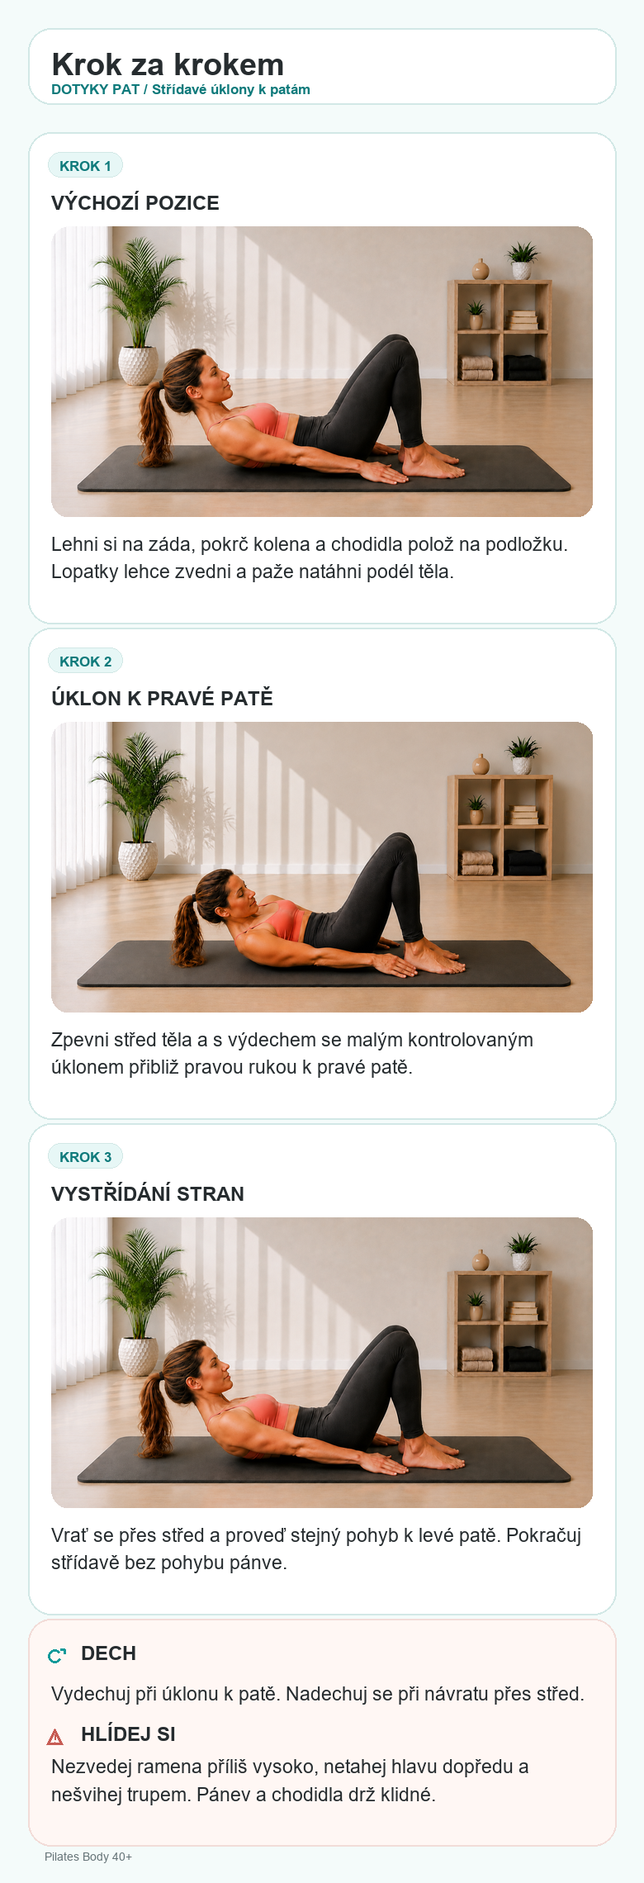
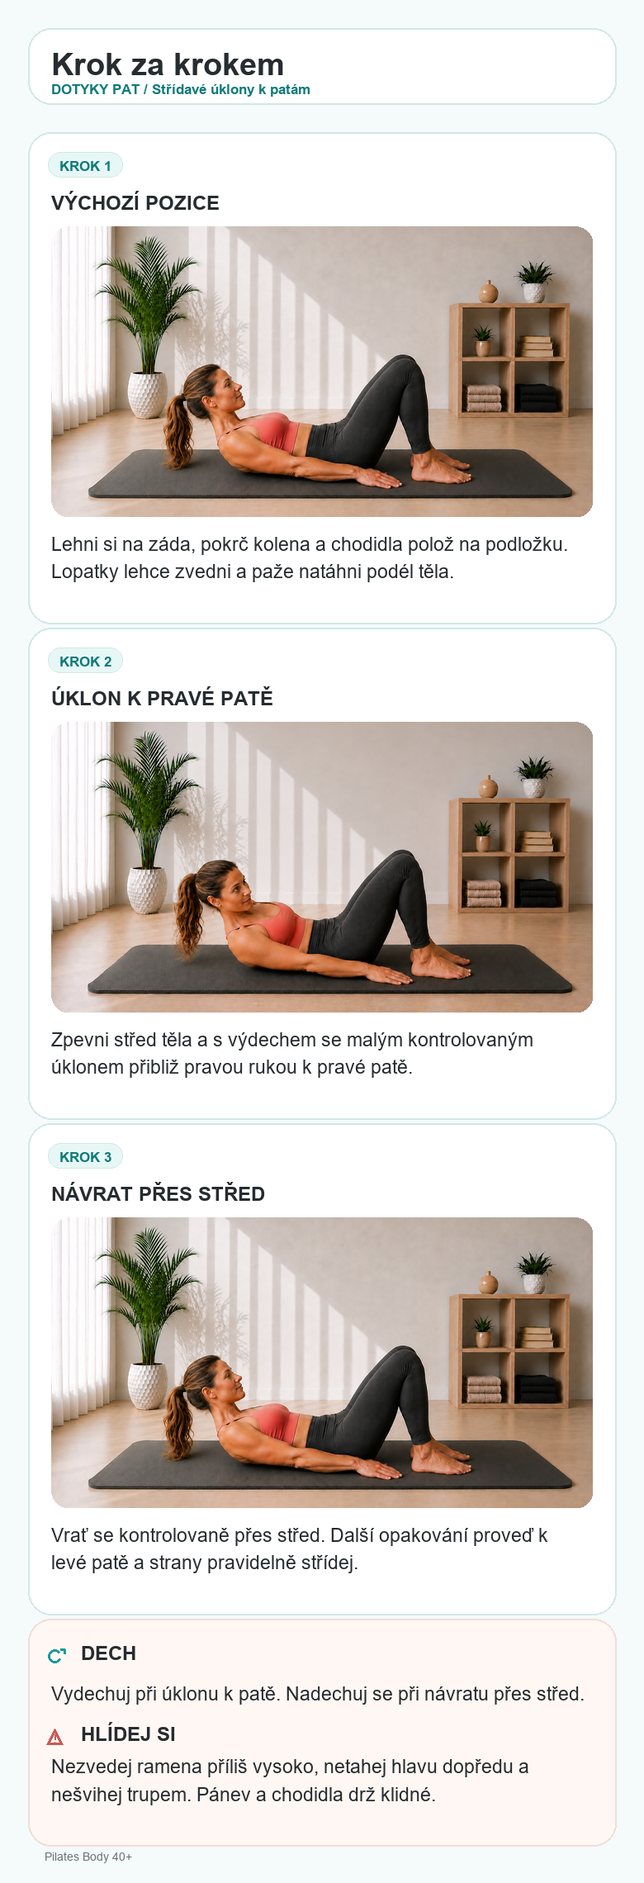
a

Changed region(s): [[0.0615, 0.6228, 0.9231, 0.8408], [0.0615, 0.1246, 0.9231, 0.2803], [0.0615, 0.3737, 0.9231, 0.5294]]

diff --git a/Pilates Assets/02_Exercise_Cards/Heel Taps/build_heel_taps_cards.py b/Pilates Assets/02_Exercise_Cards/Heel Taps/build_heel_taps_cards.py
@@ -6,13 +6,13 @@ from PIL import Image, ImageDraw, ImageFont, ImageOps
 
 
 BASE = Path(__file__).resolve().parent
-START = BASE / "heel_taps_start_v01.png"
-HERO = BASE / "heel_taps_hero_v01.png"
+START = BASE / "heel_taps_start_v02.png"
+HERO = BASE / "heel_taps_hero_v02.png"
 GUIDE = BASE / "heel_taps_guide_card_v01.png"
 STEP = BASE / "heel_taps_step_by_step_v01.png"
 EXPECTED_HASHES = {
[4 lines of base64/hex data omitted]
 }
 BG = (244, 251, 250)
 CARD = (255, 255, 255)
@@ -52,8 +52,8 @@ STEP_TEXTS = [
     ),
     (
         "KROK 3",
-        "VYSTŘÍDÁNÍ STRAN",
-        "Vrať se přes střed a proveď stejný pohyb k levé patě. Pokračuj střídavě bez pohybu pánve.",
+        "NÁVRAT PŘES STŘED",
+        "Vrať se kontrolovaně přes střed. Další opakování proveď k levé patě a strany pravidelně střídej.",
         START,
     ),
 ]

diff --git a/04_Codex/exercise_environment_audit_2026-08-28/EXERCISE_ENVIRONMENT_AUDIT_2026-08-28.md b/04_Codex/exercise_environment_audit_2026-08-28/EXERCISE_ENVIRONMENT_AUDIT_2026-08-28.md
@@ -1,0 +1,103 @@
+# Moovka - audit prostředí exercise assetů
+
+Datum: 2026-08-28
+Režim: READ-ONLY / žádné generování / žádné úpravy fotografií
+
+## Souhrn
+- Cesta k repozitáři: `C:\Users\Tomáš Machánek\Documents\GitHub\Pilates`
+- Větev / HEAD: `main` / `b20d7cb`
+- Stav vůči origin/main: `## main...origin/main;  M "Pilates Assets/02_Exercise_Cards/Heel Taps/build_heel_taps_cards.py";  M "Pilates Assets/02_Exercise_Cards/Heel Taps/heel_taps_guide_card_v01.png";  M "Pilates Assets/02_Exercise_Cards/Heel Taps/heel_taps_step_by_step_v01.png"; ?? 04_Codex/exercise_environment_audit_2026-08-28/`
+- Verze aplikace: `v59.112-dev`
+- Cache suffix `data.js`: `59112program`
+- Reference: `C:\Users\Tomáš Machánek\Documents\GitHub\Pilates\Pilates Assets\02_Exercise_Cards\Heel Taps\heel_taps_start_v02.png`
+- Reference rozměry / režim: `1536 x 1024` / `RGB`; očekávané sRGB, ICC profil není vložen
[1 lines of base64/hex data omitted]
+- Aktivní cviky: `51`
+- Unikátní otevřené fotografie: `108`
+- PASS: `39`
+- DETAIL ONLY: `7`
+- MINOR VISIBLE FIX: `5`
+- REGENERATE ENVIRONMENT/SET: `0`
+- REVIEW: `0`
+- MISSING: `0`
+
+## Preflight
+- Program obsahuje přesně 30 dní.
+- Volné dny jsou 7, 14, 21 a 28.
+- `sidekick` je ve dnech 18 a 25.
+- `childs_pose` je stretch dne 20 (`40 s`).
+- `wall` není aktivně referencovaný ani definovaný.
+- Aktivní ID: 43 unikátních v `day.items`, 9 unikátních v `day.stretch`, `thread` v obou skupinách, celkem 51.
+
+## Kontaktní přehledy
+- `C:\Users\Tomáš Machánek\Documents\GitHub\Pilates\04_Codex\exercise_environment_audit_2026-08-28\contact_sheet_active_photos_part_01.png`
+- `C:\Users\Tomáš Machánek\Documents\GitHub\Pilates\04_Codex\exercise_environment_audit_2026-08-28\contact_sheet_active_photos_part_02.png`
+- `C:\Users\Tomáš Machánek\Documents\GitHub\Pilates\04_Codex\exercise_environment_audit_2026-08-28\contact_sheet_active_photos_part_03.png`
+- `C:\Users\Tomáš Machánek\Documents\GitHub\Pilates\04_Codex\exercise_environment_audit_2026-08-28\contact_sheet_active_photos_part_04.png`
+
+## Auditní tabulka
+| Cvik | Fáze | Soubor | Kamerová skupina | Velikost modelky | Perspektiva | Palma | Květináč | Police | Ručníky/knihy | Podložka | Barvy/světlo | START/HERO kontinuita | Čistota | Viditelnost odchylky | Výsledek | Doporučení |
+|---|---|---|---|---|---|---|---|---|---|---|---|---|---|---|---|---|
+| Bent Over Row | START/HERO/END + aktivní step foto | START: `bent_over_row_start_v02.png`<br>HERO: `bent_over_row_hero_v02.png`<br>PŘÍTAH: `bent_over_row_hero_v02.png`<br>NÁVRAT: `bent_over_row_start_v02.png` | stoj | OK | OK | OK | OK | OK | OK | OK | OK | OK | bez viditelné odchylky | PASS | Bez zásahu. Působí jako součást stejné fotografické série. |
+| Bicycle Crunch | START/HERO/END + aktivní step foto | START: `bicycle_crunch_start_v01.png`<br>HERO: `bicycle_crunch_hero_v01.png`<br>END: `bicycle_crunch_end_v01.png`<br>ROTACE: `bicycle_crunch_hero_v01.png`<br>VÝMĚNA: `bicycle_crunch_end_v01.png`<br>VÝMĚNA STRAN: `bicycle_crunch_end_v01.png` | leh | OK | OK | OK | OK | OK | OK | OK | OK | OK | bez viditelné odchylky | PASS | Bez zásahu. Působí jako součást stejné fotografické série. |
+| Bird Dog | START/HERO/END + aktivní step foto | START: `bird_dog_start_v01.png`<br>HERO: `bird_dog_hero_v01.png`<br>HLAVNÍ POHYB: `bird_dog_hero_v01.png`<br>NÁVRAT: `bird_dog_start_v01.png` | klek / všechny čtyři | OK | OK | OK | OK | OK | OK | OK | OK | OK | bez viditelné odchylky | PASS | Bez zásahu. Působí jako součást stejné fotografické série. |
+| Boční prkno s rotací | START/HERO/END + aktivní step foto | START: `side_plank_reach_start_v01.png`<br>HERO: `side_plank_reach_hero_v01.png`<br>END: `side_plank_reach_end_v01.png`<br>REACH POD TRUP: `side_plank_reach_hero_v01.png`<br>NÁVRAT: `side_plank_reach_end_v01.png`<br>VÝCHOZÍ POLOHA: `side_plank_reach_start_v01.png` | bok | OK | OK | OK | OK | OK | OK | OK | OK | OK | bez viditelné odchylky | PASS | Bez zásahu. Působí jako součást stejné fotografické série. |
+| Boční zkracovačky ve stoji | START/HERO/END + aktivní step foto | START: `standing_oblique_crunch_start_v01.png`<br>HERO: `standing_oblique_crunch_hero_v01.png`<br>END: `standing_oblique_crunch_hero_opposite_v01.png`<br>PŘITAŽENÍ: `standing_oblique_crunch_hero_v01.png`<br>DRUHÁ STRANA: `standing_oblique_crunch_hero_opposite_v01.png`<br>VÝCHOZÍ POSTOJ: `standing_oblique_crunch_start_v01.png`<br>PŘITAŽENÍ KOLENA: `standing_oblique_crunch_hero_v01.png` | stoj | OK / drobná odchylka | OK | OK | OK | OK | OK | drobná odchylka | OK | OK | DETAIL ONLY | DETAIL ONLY | Stojová série má mírně odlišné měřítko a barevný kontrast, ale v rámci stojové skupiny drží konzistenci. |
+| Cat-Cow | START/HERO/END + aktivní step foto | START: `cat_cow_start_v01.png`<br>HERO: `cat_cow_hero_v01.png`<br>END: `cat_cow_end_v01.png`<br>KOČKA: `cat_cow_hero_v01.png`<br>KRÁVA: `cat_cow_end_v01.png`<br>VÝCHOZÍ POZICE: `cat_cow_start_v01.png` | klek / všechny čtyři | OK | OK | OK | OK | OK | OK | OK | OK | OK | bez viditelné odchylky | PASS | Bez zásahu. Působí jako součást stejné fotografické série. |
+| Chest Opener | START/HERO/END + aktivní step foto | START: `chest_opener_start_v01.png`<br>HERO: `chest_opener_hero_v04.png`<br>OTEVŘENÍ: `chest_opener_hero_v04.png`<br>NÁVRAT: `chest_opener_start_v01.png`<br>OTEVŘENÍ HRUDNÍKU: `chest_opener_hero_v04.png` | stoj | OK / drobná odchylka | OK | OK | OK | OK | OK | drobná odchylka | OK | OK | DETAIL ONLY | DETAIL ONLY | Stojová kamera je o něco dál a modelka je menší; v rámci stojových cviků přijatelné, běžně neruší. |
+| Clamshell | START/HERO/END + aktivní step foto | START: `clamshell_start_v01.png`<br>HERO: `clamshell_hero_v01.png`<br>HLAVNÍ POHYB: `clamshell_hero_v01.png`<br>NÁVRAT: `clamshell_start_v01.png` | bok | OK | OK | OK | OK | OK | OK | OK | OK | OK | bez viditelné odchylky | PASS | Bez zásahu. Působí jako součást stejné fotografické série. |
+| Dead Bug | START/HERO/END + aktivní step foto | START: `dead_bug_start_v01.png`<br>HERO: `dead_bug_hero_v01.png`<br>HLAVNÍ POHYB: `dead_bug_hero_v01.png`<br>NÁVRAT: `dead_bug_start_v01.png` | leh | OK | OK | OK | OK | OK | OK | OK | OK | OK | bez viditelné odchylky | PASS | Bez zásahu. Působí jako součást stejné fotografické série. |
+| Fire Hydrant | START/HERO/END + aktivní step foto | START: `fire_hydrant_start_v01.png`<br>HERO: `fire_hydrant_hero_v01.png`<br>HLAVNÍ POHYB: `fire_hydrant_hero_v01.png`<br>NÁVRAT: `fire_hydrant_start_v01.png` | klek / všechny čtyři | OK | OK | OK | OK | OK | OK | OK | OK | OK | bez viditelné odchylky | PASS | Bez zásahu. Působí jako součást stejné fotografické série. |
+| Frog Pumps | START/HERO/END + aktivní step foto | START: `frog_pumps_start_v01.png`<br>HERO: `frog_pumps_hero_v01.png`<br>ZDVIH PÁNVE: `frog_pumps_hero_v01.png`<br>NÁVRAT: `frog_pumps_start_v01.png`<br>KONTROLOVANÝ NÁVRAT: `frog_pumps_start_v01.png` | leh | viditelná odchylka | viditelná odchylka | OK / kontrolovat | OK / kontrolovat | OK / kontrolovat | OK | viditelná odchylka | OK / odůvodněné pózou | OK | APP-VISIBLE | MINOR VISIBLE FIX | U lehu působí modelka menší a pozadí výraznější než u Heel Taps START v02. Zachovat pózu/modelku, při další opravě sjednotit vzdálenost kamery. |
+| Heel Taps | START/HERO/END + aktivní step foto | START: `heel_taps_start_v01.png`<br>HERO: `heel_taps_hero_v01.png`<br>DOSAH: `heel_taps_hero_v01.png`<br>NÁVRAT: `heel_taps_start_v01.png`<br>VÝCHOZÍ POZICE: `heel_taps_start_v01.png`<br>DOSAH K PATĚ: `heel_taps_hero_v01.png`<br>VYSTŘÍDÁNÍ STRAN: `heel_taps_start_v01.png` | leh | viditelná odchylka | viditelná odchylka | OK / kontrolovat | OK / kontrolovat | OK / kontrolovat | OK | viditelná odchylka | slabší návaznost | OK | APP-VISIBLE | MINOR VISIBLE FIX | Aktivní detail stále odkazuje na v01 START/HERO, zatímco nová závazná reference je Heel Taps START v02. Prostředí je blízké, ale pro plnou jednotnost spojit s budoucím přepojením na v02. |
+| Hollow Hold | START/HERO/END + aktivní step foto | START: `hollow_hold_start_v01.png`<br>HERO: `hollow_hold_hero_v02.png`<br>VÝDRŽ: `hollow_hold_hero_v02.png`<br>NÁVRAT: `hollow_hold_start_v01.png`<br>VÝCHOZÍ POLOHA: `hollow_hold_start_v01.png`<br>ZVEDNUTÍ DO HOLLOW HOLD: `hollow_hold_hero_v02.png`<br>VÝDRŽ A NÁVRAT: `hollow_hold_start_v01.png` | leh | OK / drobná odchylka | OK | OK | OK | OK | OK | drobná odchylka | OK | OK | DETAIL ONLY | DETAIL ONLY | HERO má lehce jiný pocit měřítka a světla oproti START; v aplikaci působí stále jako stejná série. |
+| Jemné protažení zadní strany stehna | START/HERO/END + aktivní step foto | START: `hamstring_stretch_start_v01.png`<br>HERO: `hamstring_stretch_hero_v01.png`<br>PROPNUTÍ: `hamstring_stretch_hero_v01.png`<br>NÁVRAT: `hamstring_stretch_start_v01.png`<br>VÝCHOZÍ POZICE: `hamstring_stretch_start_v01.png`<br>PROPNUTÍ NOHY: `hamstring_stretch_hero_v01.png`<br>KONTROLOVANÝ NÁVRAT: `hamstring_stretch_start_v01.png` | leh | OK | OK | OK | OK | OK | OK | OK | OK | OK | bez viditelné odchylky | PASS | Bez zásahu. Působí jako součást stejné fotografické série. |
+| Jemný záklon vleže | START/HERO/END + aktivní step foto | START: `swan_prep_start_v01.png`<br>HERO: `swan_prep_hero_v01.png`<br>ZVEDNI HRUDNÍK: `swan_prep_hero_v01.png`<br>ZPĚT: `swan_prep_start_v01.png`<br>VÝCHOZÍ POLOHA: `swan_prep_start_v01.png`<br>PRODLOUŽENÍ PÁTEŘE: `swan_prep_hero_v01.png`<br>NÍZKÝ ZDVIH HRUDNÍKU: `swan_prep_hero_v01.png`<br>NÁVRAT DOLŮ: `swan_prep_start_v01.png` | leh na břiše | OK | OK | OK | OK | OK | OK | OK | OK | OK | bez viditelné odchylky | PASS | Bez zásahu. Působí jako součást stejné fotografické série. |
+| Kliky na kolenou | START/HERO/END + aktivní step foto | START: `knee_push_up_start_v01.png`<br>HERO: `knee_push_up_hero_v01.png`<br>DOLŮ: `knee_push_up_hero_v01.png`<br>ZPĚT: `knee_push_up_start_v01.png`<br>VÝCHOZÍ POLOHA: `knee_push_up_start_v01.png`<br>POHYB DOLŮ: `knee_push_up_hero_v01.png`<br>PEVNÁ OSA TĚLA: `knee_push_up_hero_v01.png`<br>NÁVRAT VZHŮRU: `knee_push_up_start_v01.png` | klek / plank | OK | OK | OK | OK | OK | OK | OK | OK | OK | bez viditelné odchylky | PASS | Bez zásahu. Působí jako součást stejné fotografické série. |
+| Kmity pažemi vleže | START/HERO/END + aktivní step foto | START: `hundred_start_v01.png`<br>HERO: `hundred_hero_v01.png`<br>PRACOVNÍ POZICE: `hundred_hero_v01.png`<br>NÁVRAT: `hundred_start_v01.png`<br>MALÉ PULZY: `hundred_hero_v01.png` | leh | OK | OK | OK | OK | OK | OK | OK | OK | OK | bez viditelné odchylky | PASS | Bez zásahu. Působí jako součást stejné fotografické série. |
+| Lateral Raise | START/HERO/END + aktivní step foto | START: `lateral_raise_start_v01.png`<br>HERO: `lateral_raise_hero_v01.png`<br>UPAŽENÍ: `lateral_raise_hero_v01.png`<br>NÁVRAT: `lateral_raise_start_v01.png`<br>VÝCHOZÍ POZICE: `lateral_raise_start_v01.png`<br>KONTROLOVANÝ NÁVRAT: `lateral_raise_start_v01.png` | stoj | OK | OK | OK | OK | OK | OK | OK | OK | OK | bez viditelné odchylky | PASS | Bez zásahu. Působí jako součást stejné fotografické série. |
+| Leg Raises | START/HERO/END + aktivní step foto | START: `leg_raises_start_v02.png`<br>HERO: `leg_raises_hero_v01.png`<br>SPOUŠTĚNÍ: `leg_raises_hero_v01.png`<br>NÁVRAT: `leg_raises_start_v02.png`<br>VÝCHOZÍ POZICE: `leg_raises_start_v02.png`<br>SPOUŠTĚNÍ NOHOU: `leg_raises_hero_v01.png`<br>KONTROLOVANÝ NÁVRAT: `leg_raises_start_v02.png` | leh | OK | OK | OK | OK | OK | OK | OK | OK | OK | bez viditelné odchylky | PASS | Bez zásahu. Působí jako součást stejné fotografické série. |
+| Mermaid Stretch | START/HERO/END + aktivní step foto | START: `mermaid_stretch_start_v01.png`<br>HERO: `mermaid_stretch_hero_v01.png`<br>BOČNÍ ÚKLON: `mermaid_stretch_hero_v01.png`<br>NÁVRAT: `mermaid_stretch_start_v01.png`<br>VÝCHOZÍ POZICE: `mermaid_stretch_start_v01.png` | sed/bok | OK | OK | OK | OK | OK | OK | OK | OK | OK | bez viditelné odchylky | PASS | Bez zásahu. Působí jako součást stejné fotografické série. |
+| Most | START/HERO/END + aktivní step foto | START: `glute_bridge_start_v1.png`<br>HERO: `glute_bridge_hero_v1.png`<br>HLAVNÍ POHYB: `glute_bridge_hero_v1.png`<br>NÁVRAT: `glute_bridge_start_v1.png` | leh | OK | OK | OK | OK | OK | OK | OK | OK | OK | bez viditelné odchylky | PASS | Bez zásahu. Působí jako součást stejné fotografické série. |
+| Nůžky | START/HERO/END + aktivní step foto | START: `scissors_start_v01.png`<br>HERO: `scissors_hero_v01.png`<br>NŮŽKY: `scissors_hero_v01.png`<br>STŘÍDEJ NOHY: `scissors_hero_v01.png`<br>VÝCHOZÍ POLOHA: `scissors_start_v01.png`<br>NŮŽKOVÁ POLOHA: `scissors_hero_v01.png` | leh | OK | OK | OK | OK | OK | OK | OK | OK | OK | bez viditelné odchylky | PASS | Bez zásahu. Působí jako součást stejné fotografické série. |
+| Plank Shoulder Taps | START/HERO/END + aktivní step foto | START: `plank_shoulder_taps_start_v02.png`<br>HERO: `plank_shoulder_taps_hero_v01.png`<br>DOTYK: `plank_shoulder_taps_hero_v01.png`<br>NÁVRAT: `plank_shoulder_taps_start_v02.png`<br>VYSOKÝ PLANK: `plank_shoulder_taps_start_v02.png`<br>DOTYK RAMENE: `plank_shoulder_taps_hero_v01.png`<br>VYSTŘÍDÁNÍ STRAN: `plank_shoulder_taps_start_v02.png` | plank | OK | OK | OK | OK | OK | OK | OK | OK | OK | bez viditelné odchylky | PASS | Bez zásahu. Působí jako součást stejné fotografické série. |
+| Plié Squat | START/HERO/END + aktivní step foto | START: `plie_squat_start_v01.png`<br>HERO: `plie_squat_hero_v01.png`<br>PLIÉ DŘEP: `plie_squat_hero_v01.png`<br>NÁVRAT: `plie_squat_start_v01.png`<br>VÝCHOZÍ POSTOJ: `plie_squat_start_v01.png`<br>NÁVRAT DO STOJE: `plie_squat_start_v01.png` | stoj | OK | OK | OK | OK | OK | OK | OK | OK | OK | bez viditelné odchylky | PASS | Bez zásahu. Působí jako součást stejné fotografické série. |
+| Pochod v mostu | START/HERO/END + aktivní step foto | START: `glute_bridge_march_start_v02.png`<br>HERO: `glute_bridge_march_hero_v02.png`<br>POCHOD V MOSTU: `glute_bridge_march_hero_v02.png`<br>NÁVRAT: `glute_bridge_march_mid_v02.png`<br>VÝCHOZÍ POZICE: `glute_bridge_march_start_v02.png`<br>MOST A POCHOD: `glute_bridge_march_hero_v02.png`<br>STABILNÍ NÁVRAT: `glute_bridge_march_mid_v02.png` | leh | OK | OK | OK | OK | OK | OK | OK | OK | OK | bez viditelné odchylky | PASS | Bez zásahu. Působí jako součást stejné fotografické série. |
+| Pochod vleže | START/HERO/END + aktivní step foto | START: `hip_march_start_v02.png`<br>HERO: `hip_march_hero_v02.png`<br>HLAVNÍ POHYB: `hip_march_hero_v02.png`<br>NÁVRAT: `hip_march_start_v02.png` | leh | OK | OK | OK | OK | OK | OK | OK | OK | OK | bez viditelné odchylky | PASS | Bez zásahu. Působí jako součást stejné fotografické série. |
+| Pozice dítěte | START/HERO/END + aktivní step foto | START: `childs_pose_start_v01.png`<br>HERO: `childs_pose_hero_v01.png`<br>POZICE DÍTĚTE: `childs_pose_hero_v01.png`<br>NÁVRAT: `childs_pose_start_v01.png`<br>VÝCHOZÍ POZICE: `childs_pose_start_v01.png` | klek / všechny čtyři | OK | OK | OK | OK | OK | OK | OK | OK | OK | bez viditelné odchylky | PASS | Bez zásahu. Působí jako součást stejné fotografické série. |
+| Prkno na předloktích | START/HERO/END + aktivní step foto | START: `forearm_plank_start_v01.png`<br>HERO: `forearm_plank_start_v01.png`<br>VÝDRŽ: `forearm_plank_start_v01.png`<br>KONEC VÝDRŽE: `forearm_plank_start_v01.png` | plank | OK | OK | OK | OK | OK | OK | OK | OK | OK | bez viditelné odchylky | PASS | Bez zásahu. Působí jako součást stejné fotografické série. |
+| Protažení hýždí vleže | START/HERO/END + aktivní step foto | START: `figure_four_stretch_start_v01.png`<br>HERO: `figure_four_stretch_hero_v02.png`<br>NASTAVENÍ: `figure_four_stretch_mid_v02.png`<br>PROTAŽENÍ: `figure_four_stretch_hero_v02.png`<br>VÝCHOZÍ POZICE: `figure_four_stretch_start_v01.png` | leh | OK | OK | OK | OK | OK | OK | OK | OK | OK | bez viditelné odchylky | PASS | Bez zásahu. Působí jako součást stejné fotografické série. |
+| Protažení páteře v sedu | START/HERO/END + aktivní step foto | START: `spine_stretch_start_v01.png`<br>HERO: `spine_stretch_hero_v01.png`<br>PROTAŽENÍ: `spine_stretch_hero_v01.png`<br>NÁVRAT: `spine_stretch_start_v01.png`<br>VÝCHOZÍ POLOHA: `spine_stretch_start_v01.png`<br>ZAKULACENÍ PÁTEŘE: `spine_stretch_hero_v01.png`<br>KONTROLOVANÝ NÁVRAT: `spine_stretch_start_v01.png` | sed | OK | OK | OK | OK | OK | OK | OK | OK | OK | bez viditelné odchylky | PASS | Bez zásahu. Působí jako součást stejné fotografické série. |
+| Protažení s rotací v kleku | START/HERO/END + aktivní step foto | START: `bird_dog_start_v01.png`<br>HERO: `thread_the_needle_hero_v01.png`<br>ROTACE: `thread_the_needle_hero_v01.png`<br>NÁVRAT: `bird_dog_start_v01.png`<br>VÝCHOZÍ POLOHA: `bird_dog_start_v01.png`<br>HLAVNÍ POHYB: `thread_the_needle_hero_v01.png`<br>PROTAŽENÍ: `thread_the_needle_hero_v01.png` | klek / všechny čtyři | viditelná odchylka | viditelná odchylka | OK / kontrolovat | OK / kontrolovat | OK / kontrolovat | OK | viditelná odchylka | slabší návaznost | OK | APP-VISIBLE | MINOR VISIBLE FIX | START používá Bird Dog reuse, HERO má viditelně jinou tělesnou kompozici a návaznost série je slabší než u párů START/HERO generovaných společně. |
+| Rainbow Leg Raise | START/HERO/END + aktivní step foto | START: `rainbow_leg_raise_start_v01.png`<br>HERO: `rainbow_leg_raise_hero_v01.png`<br>END: `rainbow_leg_raise_end_v01.png`<br>OBLOUK: `rainbow_leg_raise_hero_v01.png` | klek / všechny čtyři | viditelná odchylka | viditelná odchylka | OK / kontrolovat | OK / kontrolovat | OK / kontrolovat | OK | viditelná odchylka | OK / odůvodněné pózou | OK | APP-VISIBLE | MINOR VISIBLE FIX | Mat a zadní perspektiva působí jako odlišnější kamerové nastavení v rámci kleku/all-fours skupiny. Spojit s plánovanou modelovou/environmentální opravou. |
+| Reverse Crunch | START/HERO/END + aktivní step foto | START: `reverse_crunch_start_v01.png`<br>HERO: `reverse_crunch_hero_v01.png`<br>PODSADIT PÁNEV: `reverse_crunch_hero_v01.png`<br>NÁVRAT: `reverse_crunch_start_v01.png`<br>VÝCHOZÍ POZICE: `reverse_crunch_start_v01.png`<br>KONTROLOVANÝ NÁVRAT: `reverse_crunch_start_v01.png` | leh | OK | OK | OK | OK | OK | OK | OK | OK | OK | bez viditelné odchylky | PASS | Bez zásahu. Působí jako součást stejné fotografické série. |
+| Rolování do sedu | START/HERO/END + aktivní step foto | START: `roll_up_start_v01.png`<br>HERO: `roll_up_hero_v01.png`<br>END: `roll_up_end_v01.png`<br>ROLOVÁNÍ: `roll_up_hero_v01.png`<br>SED: `roll_up_end_v01.png`<br>VÝCHOZÍ LEH: `roll_up_start_v01.png`<br>ROLOVÁNÍ VZHŮRU: `roll_up_hero_v01.png`<br>SED A NÁVRAT: `roll_up_end_v01.png` | leh/sed | OK | OK | OK | OK | OK | OK | OK | OK | OK | bez viditelné odchylky | PASS | Bez zásahu. Působí jako součást stejné fotografické série. |
+| Rotace páteře vleže | START/HERO/END + aktivní step foto | START: `supine_twist_start_v01.png`<br>HERO: `supine_twist_hero_v01.png`<br>ROTACE: `supine_twist_hero_v01.png`<br>NÁVRAT: `supine_twist_start_v01.png`<br>VÝCHOZÍ POLOHA: `supine_twist_start_v01.png`<br>KOLENA DO STRANY: `supine_twist_hero_v01.png`<br>OTEVŘENÝ HRUDNÍK: `supine_twist_hero_v01.png`<br>NÁVRAT A VYSTŘÍDÁNÍ: `supine_twist_start_v01.png` | leh | OK | OK | OK | OK | OK | OK | OK | OK | OK | bez viditelné odchylky | PASS | Bez zásahu. Působí jako součást stejné fotografické série. |
+| Rotace trupu v sedu | START/HERO/END + aktivní step foto | START: `russian_twist_start_v01.png`<br>HERO: `russian_twist_hero_v01.png`<br>OTOČENÍ: `russian_twist_hero_v01.png`<br>NÁVRAT: `russian_twist_start_v01.png`<br>VÝCHOZÍ POLOHA: `russian_twist_start_v01.png`<br>OTOČENÍ TRUPU: `russian_twist_hero_v01.png`<br>VYSTŘÍDÁNÍ STRAN: `russian_twist_start_v01.png` | sed | OK | OK | OK | OK | OK | OK | OK | OK | OK | bez viditelné odchylky | PASS | Bez zásahu. Působí jako součást stejné fotografické série. |
+| Roznožování v mostu | START/HERO/END + aktivní step foto | START: `bridge_abduction_start_v01.png`<br>HERO: `bridge_abduction_hero_v01.png`<br>OTEVŘENÍ: `bridge_abduction_hero_v01.png`<br>NÁVRAT: `bridge_abduction_start_v01.png`<br>VÝCHOZÍ MOST: `bridge_abduction_start_v01.png`<br>OTEVŘENÍ KOLEN: `bridge_abduction_hero_v01.png`<br>KONTROLOVANÝ NÁVRAT: `bridge_abduction_start_v01.png` | leh | OK | OK | OK | OK | OK | OK | OK | OK | OK | bez viditelné odchylky | PASS | Bez zásahu. Působí jako součást stejné fotografické série. |
+| Rozpažování s činkami vleže | START/HERO/END + aktivní step foto | START: `chest_press_hero_v01.png`<br>HERO: `chest_fly_hero_v01.png`<br>OTEVŘENÍ: `chest_fly_hero_v01.png`<br>NÁVRAT: `chest_press_hero_v01.png`<br>VÝCHOZÍ POZICE: `chest_press_hero_v01.png`<br>OTEVŘENÍ PAŽÍ: `chest_fly_hero_v01.png`<br>KONTROLOVANÝ NÁVRAT: `chest_press_hero_v01.png` | leh | OK / drobná odchylka | OK | OK | OK | OK | OK | drobná odchylka | OK | OK | DETAIL ONLY | DETAIL ONLY | START je reuse Chest Press HERO; série je použitelná, ale při zvětšení je patrná drobná změna polohy a čitelnosti vybavení. |
+| Rumunský mrtvý tah | START/HERO/END + aktivní step foto | START: `romanian_deadlift_start_v01.png`<br>HERO: `romanian_deadlift_hero_v01.png`<br>HIP HINGE: `romanian_deadlift_hero_v01.png`<br>NÁVRAT: `romanian_deadlift_start_v01.png`<br>VÝCHOZÍ POZICE: `romanian_deadlift_start_v01.png` | stoj | OK | OK | OK | OK | OK | OK | OK | OK | OK | bez viditelné odchylky | PASS | Bez zásahu. Působí jako součást stejné fotografické série. |
+| Side Kick | START/HERO/END + aktivní step foto | START: `side_kick_start_v01.png`<br>HERO: `side_kick_hero_v01.png`<br>END: `side_kick_end_v01.png`<br>DOPŘEDU: `side_kick_hero_v01.png`<br>DOZADU: `side_kick_end_v01.png`<br>VÝCHOZÍ POLOHA: `side_kick_start_v01.png`<br>POHYB DOPŘEDU: `side_kick_hero_v01.png`<br>POHYB DOZADU: `side_kick_end_v01.png` | bok | OK / drobná odchylka | OK | OK | OK | OK | OK | drobná odchylka | OK | OK | DETAIL ONLY | DETAIL ONLY | Boční záběr je konzistentní, jen police/palma působí v některých fázích nepatrně jinak kvůli cropu. |
+| Side Plank | START/HERO/END + aktivní step foto | START: `side_plank_start_v01.png`<br>HERO: `side_plank_hero_v01.png`<br>SIDE PLANK: `side_plank_hero_v01.png`<br>NÁVRAT: `side_plank_start_v01.png`<br>VÝCHOZÍ POLOHA: `side_plank_start_v01.png`<br>KONTROLOVANÝ NÁVRAT: `side_plank_start_v01.png` | bok | OK | OK | OK | OK | OK | OK | OK | OK | OK | bez viditelné odchylky | PASS | Bez zásahu. Působí jako součást stejné fotografické série. |
+| Sphinx Stretch | START/HERO/END + aktivní step foto | START: `sphinx_stretch_start_v01.png`<br>HERO: `sphinx_stretch_start_v01.png`<br>NASTAVENÍ: `sphinx_stretch_start_v01.png`<br>SPHINX: `sphinx_stretch_start_v01.png`<br>VÝDRŽ: `sphinx_stretch_start_v01.png` | leh na břiše | OK | OK | OK | OK | OK | OK | OK | OK | OK | bez viditelné odchylky | PASS | Bez zásahu. Působí jako součást stejné fotografické série. |
+| Swimming | START/HERO/END + aktivní step foto | START: `swimming_start_v01.png`<br>HERO: `swimming_hero_v01.png`<br>ZVEDNUTÍ: `swimming_hero_v01.png`<br>STŘÍDÁNÍ: `swimming_start_v01.png`<br>STŘÍDÁNÍ: `swimming_hero_v01.png`<br>KONTROLA: `swimming_start_v01.png` | leh na břiše | viditelná odchylka | viditelná odchylka | OK / kontrolovat | OK / kontrolovat | OK / kontrolovat | OK | viditelná odchylka | OK / odůvodněné pózou | OK | APP-VISIBLE | MINOR VISIBLE FIX | Kvůli natažené poloze je kamera dál a modelka je menší; část oddálení je anatomicky odůvodněná, ale v sérii je rozdíl viditelný. |
+| Tlaky s činkami nad hlavu | START/HERO/END + aktivní step foto | START: `shoulder_press_start_v01.png`<br>HERO: `shoulder_press_hero_v01.png`<br>TLAK VZHŮRU: `shoulder_press_hero_v01.png`<br>NÁVRAT: `shoulder_press_start_v01.png`<br>VÝCHOZÍ POZICE: `shoulder_press_start_v01.png`<br>TLAK NAD HLAVU: `shoulder_press_hero_v01.png`<br>KONTROLOVANÝ NÁVRAT: `shoulder_press_start_v01.png` | stoj | OK | OK | OK | OK | OK | OK | OK | OK | OK | bez viditelné odchylky | PASS | Bez zásahu. Působí jako součást stejné fotografické série. |
+| Tlaky s činkami vleže | START/HERO/END + aktivní step foto | START: `chest_press_start_v01.png`<br>HERO: `chest_press_hero_v01.png`<br>TLAK NAHORU: `chest_press_hero_v01.png`<br>NÁVRAT: `chest_press_start_v01.png`<br>VÝCHOZÍ POZICE: `chest_press_start_v01.png`<br>KONTROLOVANÝ NÁVRAT: `chest_press_start_v01.png` | leh | OK | OK | OK | OK | OK | OK | OK | OK | OK | bez viditelné odchylky | PASS | Bez zásahu. Působí jako součást stejné fotografické série. |
+| Toe Taps | START/HERO/END + aktivní step foto | START: `toe_tap_start.png`<br>HERO: `toe_tap_hero.png`<br>HLAVNÍ POHYB: `toe_tap_hero.png`<br>NÁVRAT: `toe_tap_start.png` | leh | OK | OK | OK | OK | OK | OK | OK | OK | OK | bez viditelné odchylky | PASS | Bez zásahu. Působí jako součást stejné fotografické série. |
+| Triceps Kickback | START/HERO/END + aktivní step foto | START: `triceps_kickback_start_v01.png`<br>HERO: `triceps_kickback_hero_v01.png`<br>PROPNUTÍ PAŽÍ: `triceps_kickback_hero_v01.png`<br>NÁVRAT: `triceps_kickback_start_v01.png`<br>KONTROLA POHYBU: `triceps_kickback_hero_v01.png` | stoj | OK | OK | OK | OK | OK | OK | OK | OK | OK | bez viditelné odchylky | PASS | Bez zásahu. Působí jako součást stejné fotografické série. |
+| Unožování vleže na boku | START/HERO/END + aktivní step foto | START: `side_leg_start_v01.png`<br>HERO: `side_leg_lift_hero_v01.png`<br>HLAVNÍ POHYB: `side_leg_lift_hero_v01.png`<br>NÁVRAT: `side_leg_start_v01.png` | bok | OK / drobná odchylka | OK | OK | OK | OK | OK | drobná odchylka | OK | OK | DETAIL ONLY | DETAIL ONLY | Leh na boku je o něco těsnější a teplejší než Heel Taps v02; viditelné hlavně při přímém porovnání. |
+| Zanožování v kleku | START/HERO/END + aktivní step foto | START: `donkey_kick_start_v01.png`<br>HERO: `donkey_kick_hero_v01.png`<br>ZANOŽENÍ: `donkey_kick_hero_v01.png`<br>NÁVRAT: `donkey_kick_start_v01.png`<br>VÝCHOZÍ POZICE: `donkey_kick_start_v01.png` | klek / všechny čtyři | OK | OK | OK | OK | OK | OK | OK | OK | OK | bez viditelné odchylky | PASS | Bez zásahu. Působí jako součást stejné fotografické série. |
+| Zdvihy spodní nohy | START/HERO/END + aktivní step foto | START: `inner_thigh_lift_start_v01.png`<br>HERO: `inner_thigh_lift_hero_v01.png`<br>ZDVIH: `inner_thigh_lift_hero_v01.png`<br>NÁVRAT: `inner_thigh_lift_start_v01.png`<br>VÝCHOZÍ POZICE: `inner_thigh_lift_start_v01.png`<br>ZVEDNUTÍ SPODNÍ NOHY: `inner_thigh_lift_hero_v01.png`<br>KONTROLOVANÝ NÁVRAT: `inner_thigh_lift_start_v01.png` | bok | OK | OK | OK | OK | OK | OK | OK | OK | OK | bez viditelné odchylky | PASS | Bez zásahu. Působí jako součást stejné fotografické série. |
+| Úklony do stran ve stoje | START/HERO/END + aktivní step foto | START: `standing_side_bend_start_v01.png`<br>HERO: `standing_side_bend_hero_v01.png`<br>BOČNÍ ÚKLON: `standing_side_bend_hero_v01.png`<br>OPAČNÁ STRANA: `standing_side_bend_hero_opposite_v01.png`<br>VÝCHOZÍ POLOHA: `standing_side_bend_start_v01.png`<br>ÚKLON NA JEDNU STRANU: `standing_side_bend_hero_v01.png`<br>NÁVRAT DO STŘEDU: `standing_side_bend_start_v01.png`<br>ÚKLON NA OPAČNOU STRANU: `standing_side_bend_hero_opposite_v01.png` | stoj | OK / drobná odchylka | OK | OK | OK | OK | OK | drobná odchylka | OK | OK | DETAIL ONLY | DETAIL ONLY | Podobné jako Standing Oblique: drobný rozdíl kontrastu a měřítka v rámci stojové skupiny. |
+
+## Porovnání s předchozím auditem
+- Heel Taps: Nová závazná reference je v02; aktivní app mapping stále používá v01, proto dát do viditelné opravy při nejbližší synchronizaci assetů.
+- Side Kick: Zůstává použitelný; proti předchozímu stavu jen DETAIL ONLY kvůli drobnému cropu boční série.
+- Side Leg Lift: Zůstává použitelný; drobný DETAIL ONLY rozdíl v těsnosti a teplejším dojmu.
+- Rainbow Leg Raise: Zůstává hlavní viditelný kandidát na sjednocení prostředí/kamery kvůli zadní perspektivě a směru podložky.
+- Thread the Needle: Viditelná slabší návaznost START reuse Bird Dog vs HERO; spojit s budoucí opravou celé dvojice.
+- Hollow Hold: Jen DETAIL ONLY, hlavně jemný rozdíl světla/měřítka HERO.
+- Standing Oblique Crunch: DETAIL ONLY; stojová skupina drží, ale kontrast/měřítko není úplně stejné.
+- Standing Side Bend: DETAIL ONLY; sjednotit případně společně se Standing Oblique.
+- Swimming: MINOR VISIBLE FIX; modelka je kvůli natažené pozici výrazně menší a prostředí více dominuje.
+- Chest Fly: DETAIL ONLY; START reuse z Chest Press je v praxi použitelný, ale při zvětšení je patrná odlišnost série.

diff --git a/04_Codex/exercise_environment_audit_2026-08-28/PRIORITY_FIX_LIST_2026-08-28.md b/04_Codex/exercise_environment_audit_2026-08-28/PRIORITY_FIX_LIST_2026-08-28.md
@@ -1,0 +1,22 @@
+# Moovka - prioritní seznam oprav prostředí
+
+Datum: 2026-08-28
+
+## OPRAVIT - VIDITELNĚ ROZBÍJÍ SÉRII
+- Heel Taps: Aktivní detail stále odkazuje na v01 START/HERO, zatímco nová závazná reference je Heel Taps START v02. Prostředí je blízké, ale pro plnou jednotnost spojit s budoucím přepojením na v02.
+- Frog Pumps: U lehu působí modelka menší a pozadí výraznější než u Heel Taps START v02. Zachovat pózu/modelku, při další opravě sjednotit vzdálenost kamery.
+- Rainbow Leg Raise: Mat a zadní perspektiva působí jako odlišnější kamerové nastavení v rámci kleku/all-fours skupiny. Spojit s plánovanou modelovou/environmentální opravou.
+- Swimming: Kvůli natažené poloze je kamera dál a modelka je menší; část oddálení je anatomicky odůvodněná, ale v sérii je rozdíl viditelný.
+- Protažení s rotací v kleku: START používá Bird Dog reuse, HERO má viditelně jinou tělesnou kompozici a návaznost série je slabší než u párů START/HERO generovaných společně.
+
+## SPOJIT S JINOU PLÁNOVANOU OPRAVOU
+- Boční zkracovačky ve stoji: Stojová série má mírně odlišné měřítko a barevný kontrast, ale v rámci stojové skupiny drží konzistenci.
+- Úklony do stran ve stoje: Podobné jako Standing Oblique: drobný rozdíl kontrastu a měřítka v rámci stojové skupiny.
+- Side Kick: Boční záběr je konzistentní, jen police/palma působí v některých fázích nepatrně jinak kvůli cropu.
+- Unožování vleže na boku: Leh na boku je o něco těsnější a teplejší než Heel Taps v02; viditelné hlavně při přímém porovnání.
+- Rozpažování s činkami vleže: START je reuse Chest Press HERO; série je použitelná, ale při zvětšení je patrná drobná změna polohy a čitelnosti vybavení.
+- Hollow Hold: HERO má lehce jiný pocit měřítka a světla oproti START; v aplikaci působí stále jako stejná série.
+
+## DETAIL ONLY - NYNÍ BEZ ZÁSAHU
+- Chest Opener: Stojová kamera je o něco dál a modelka je menší; v rámci stojových cviků přijatelné, běžně neruší.
+- Ostatní aktivní cviky: PASS, bez zásahu.
